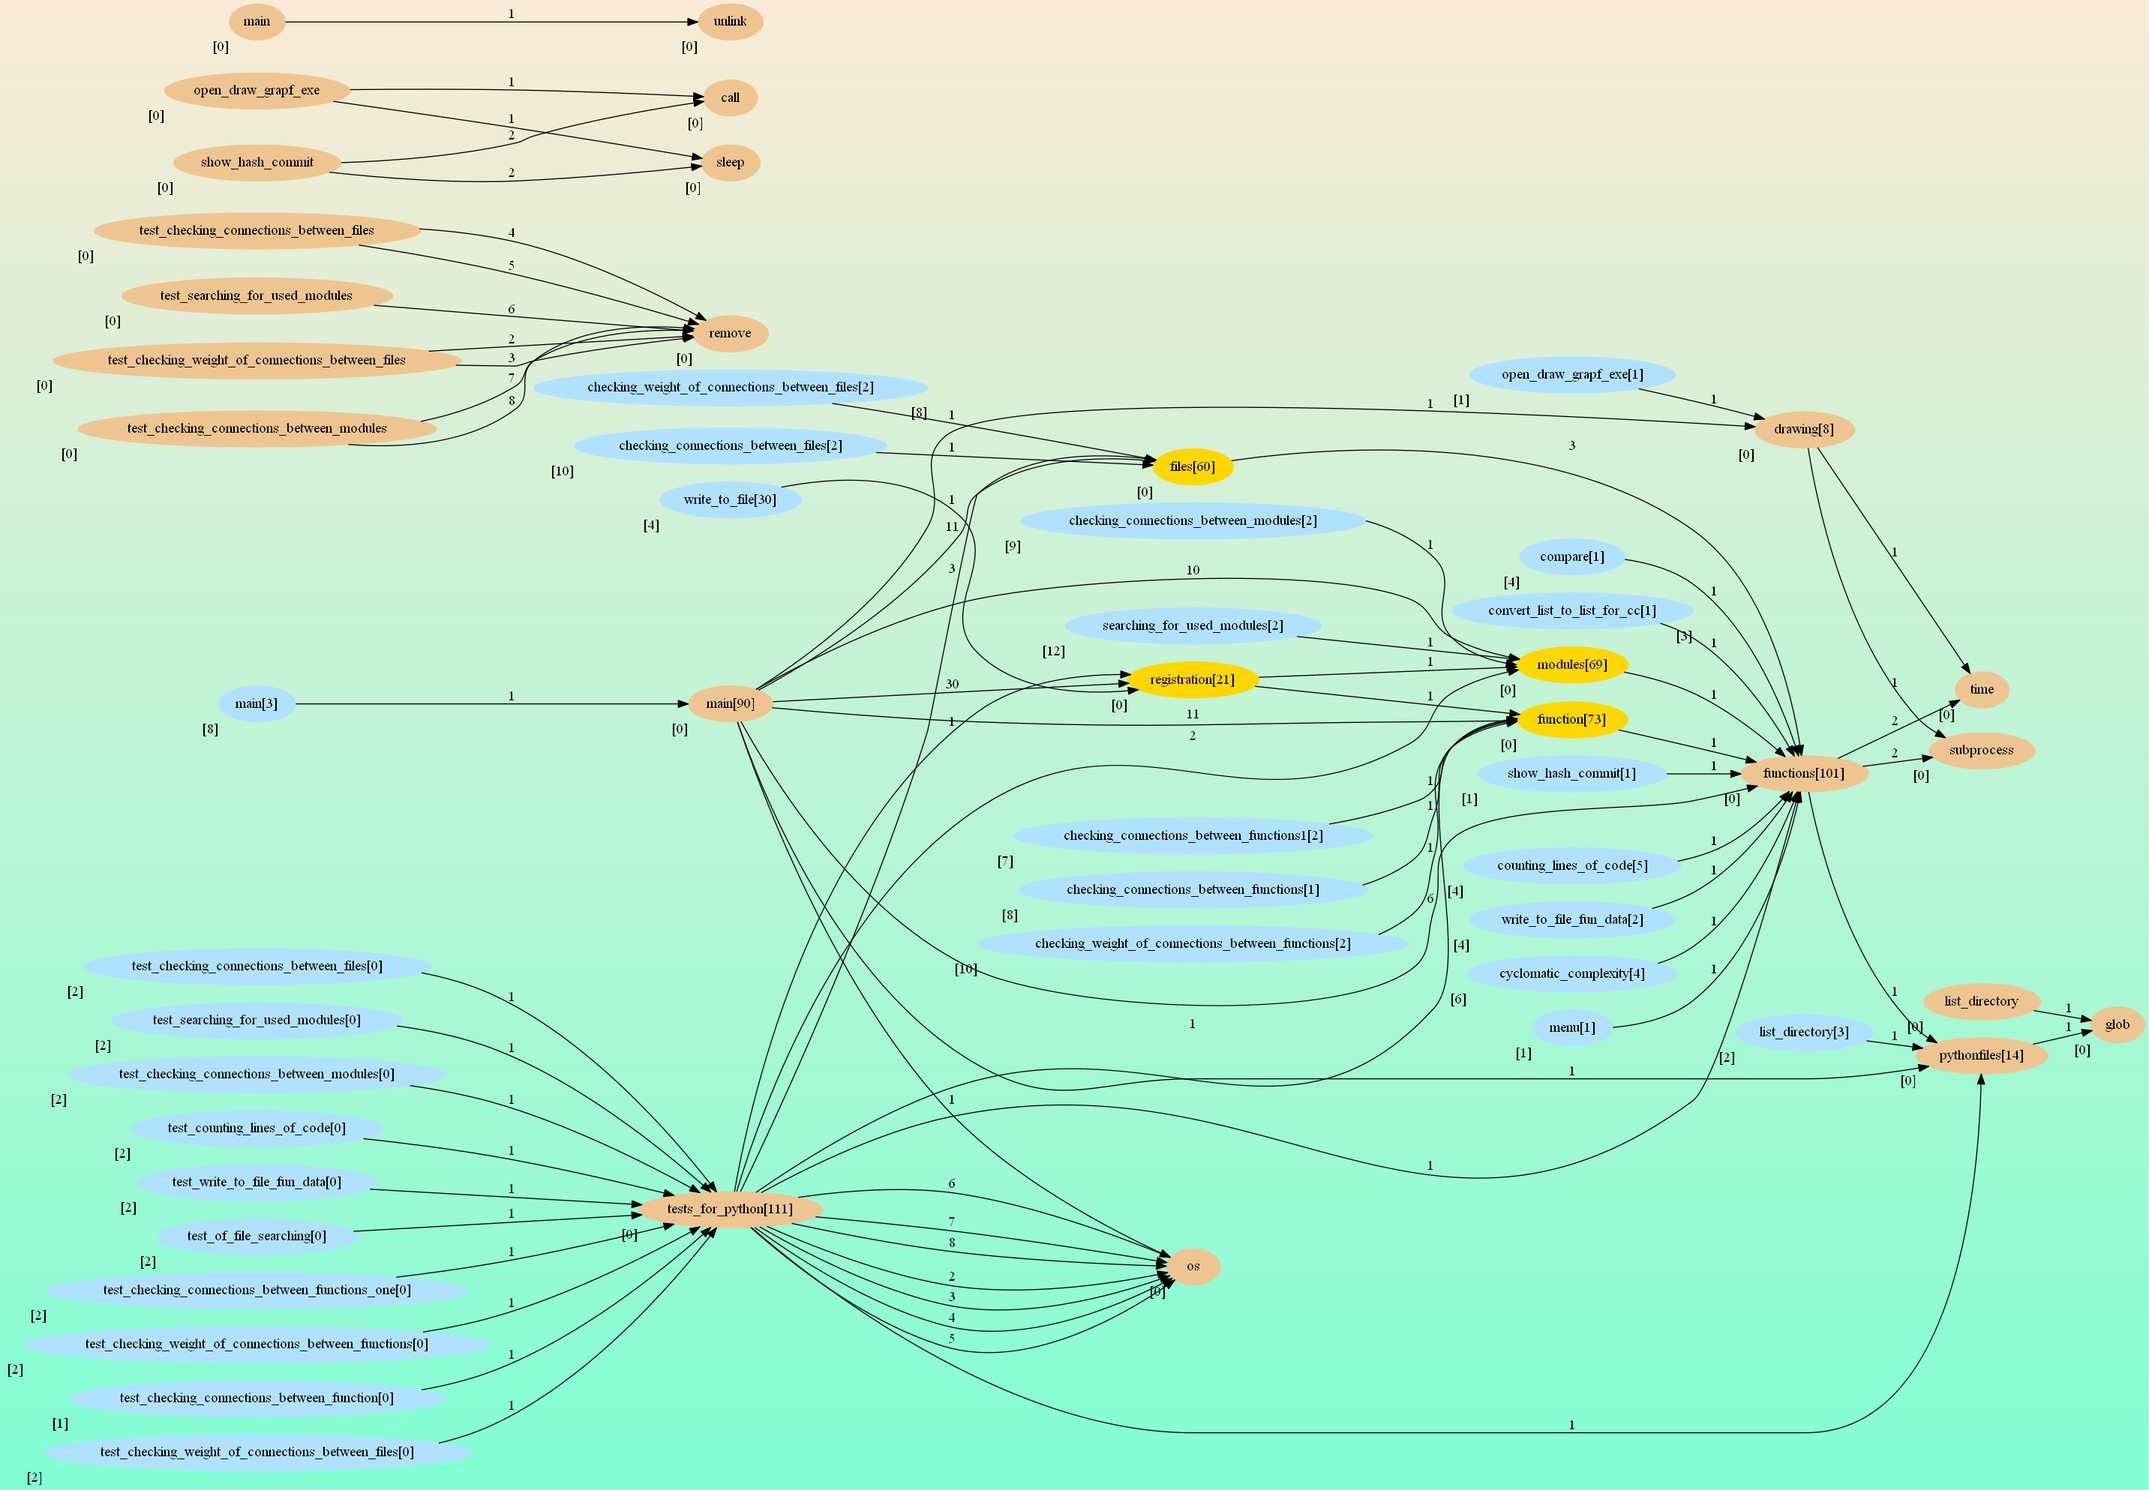
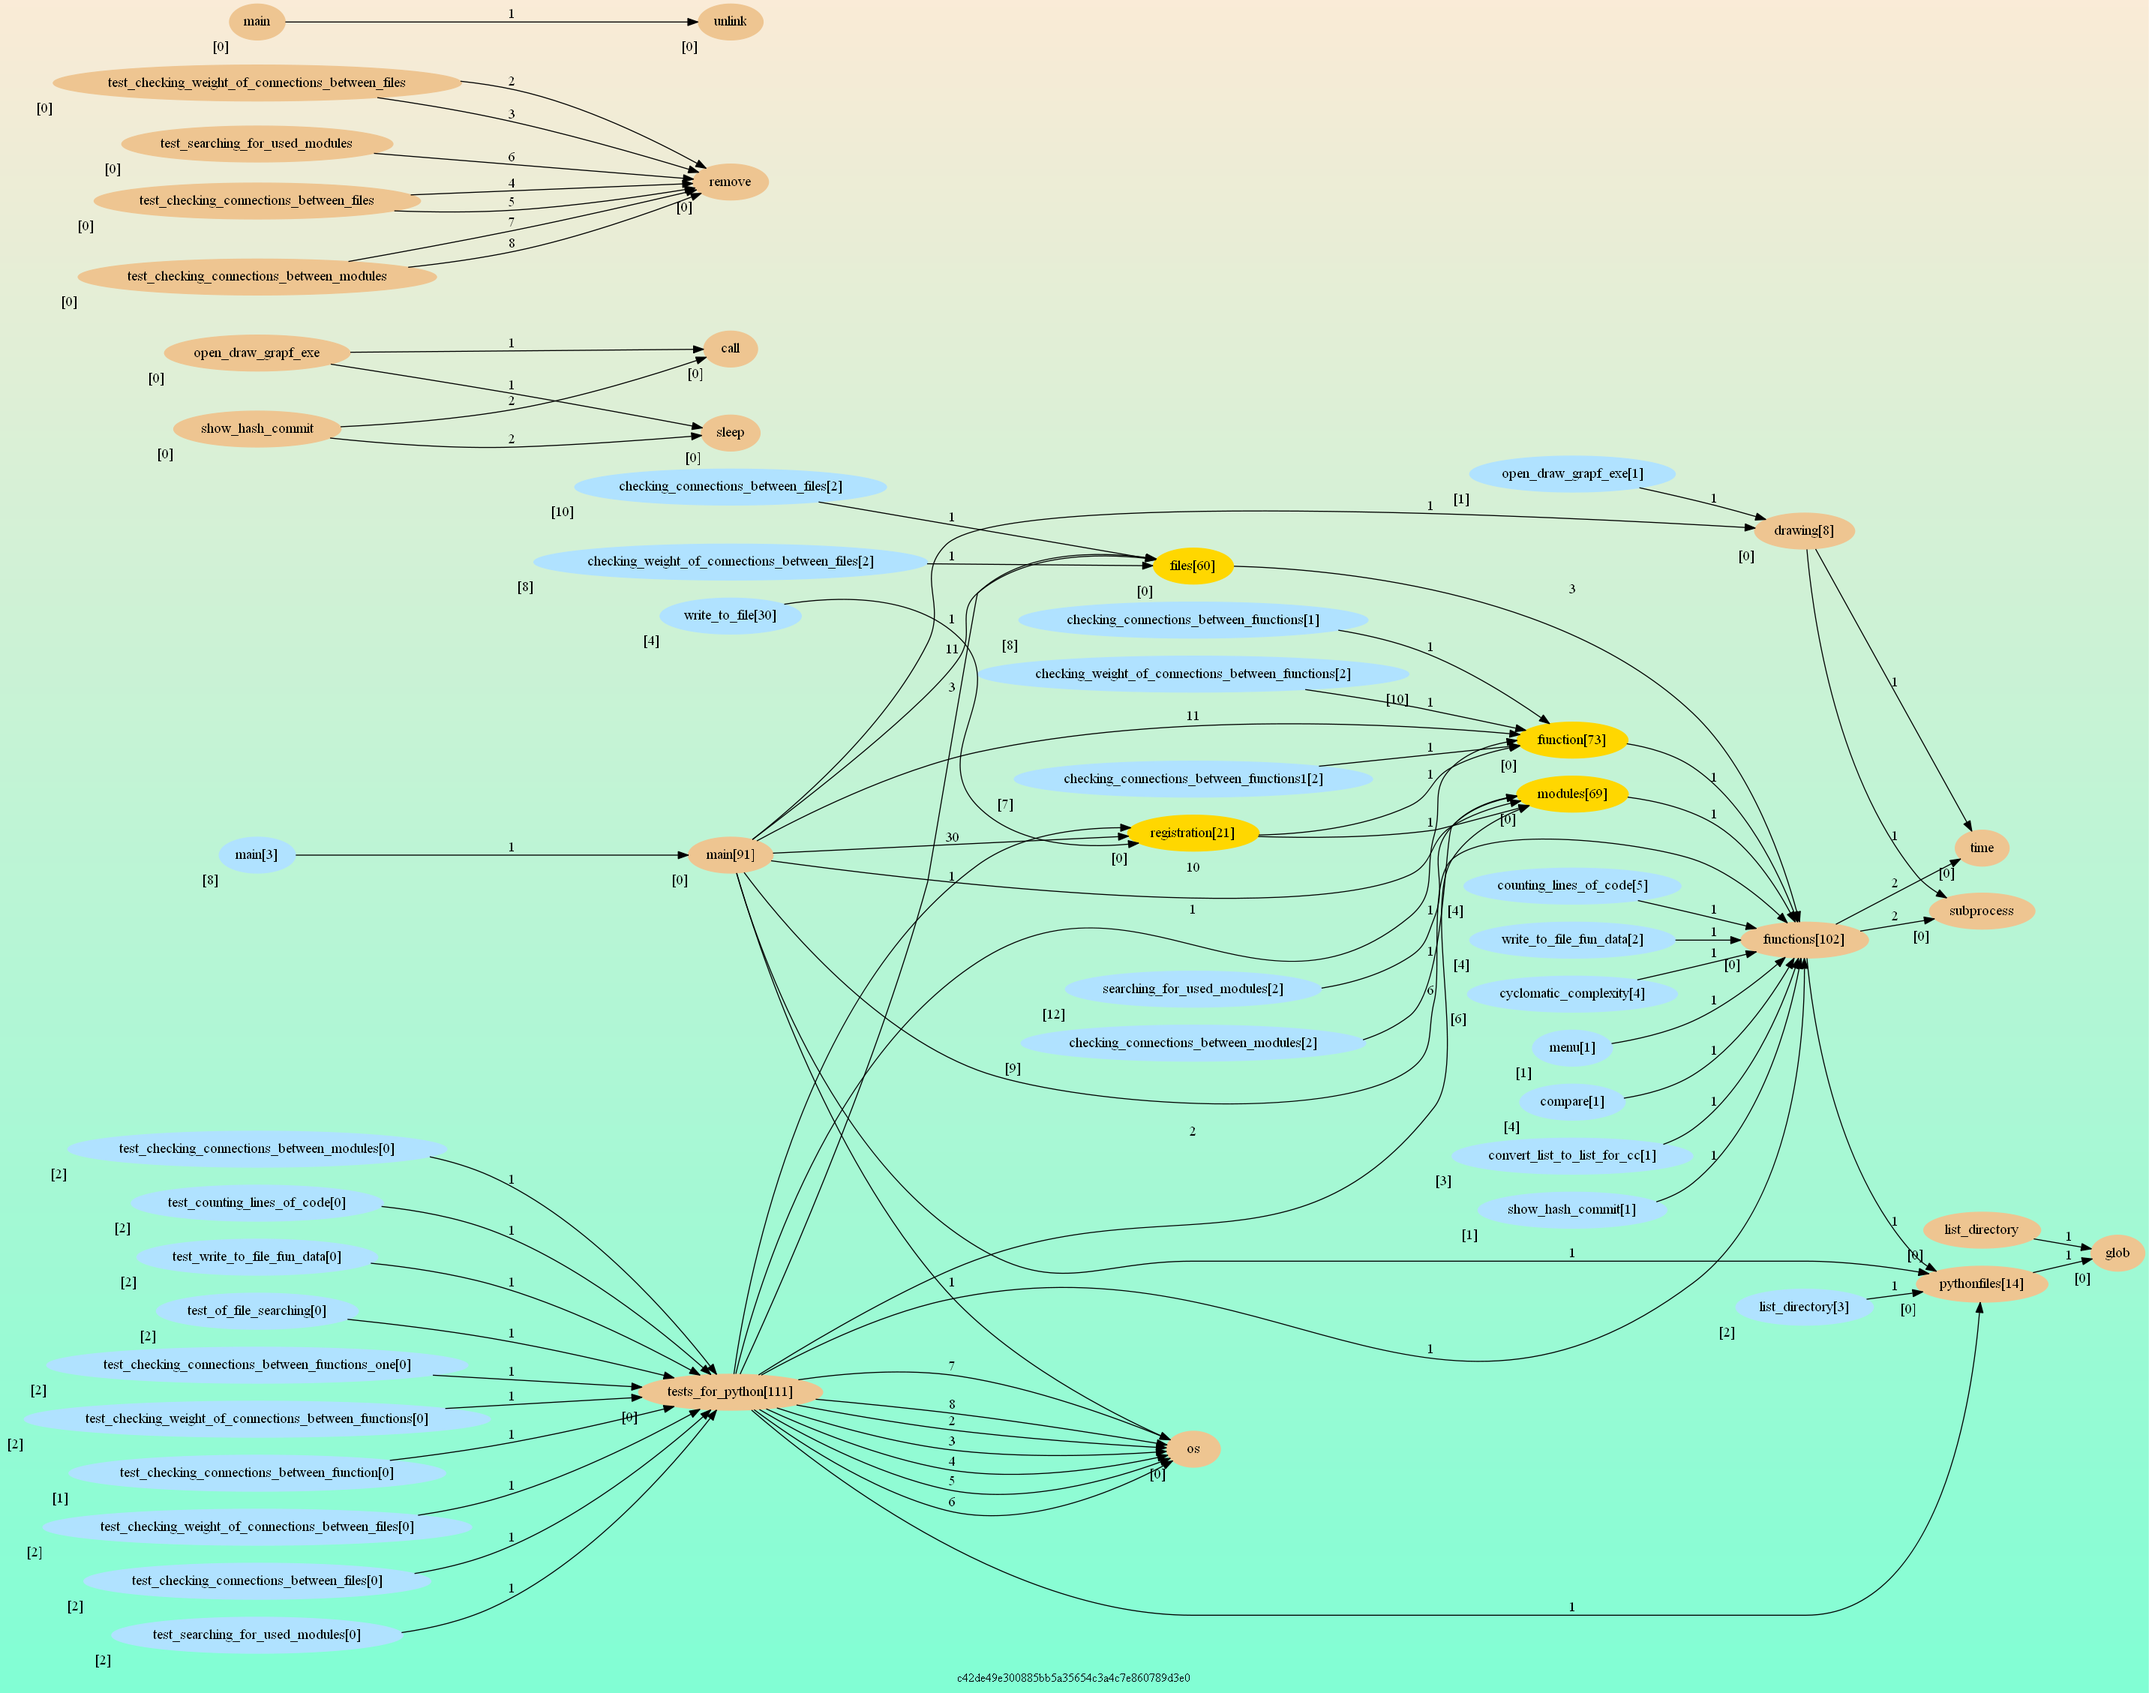
historyjka nr 12 vol 3

diff --git a/functions.py b/functions.py
@@ -108,7 +108,8 @@ def convert_list_to_list_for_cc(*args):
 
 def show_hash_commit():
     """funkcja w terminalu cmd wywoluje sh.exe a w nim wykonuje git loga aktualizujac commity na folder git_log.txt znajdujacy sie w folderze projektu """
-    cmd_command = 'start "" "C:\\Program Files\\Git\\bin\\sh.exe" --login -i -c "cd C:\\Users\\WIKUS\\PycharmProjects\\IO-ProjectJozin\\ && git --no-pager log > git_log.txt"'
+    #cmd_command = 'start "" "C:\\Program_Files\\Git\\bin\\sh.exe" --login -i -c "cd C:\\Users\\WIKUS\\PycharmProjects\\IO-ProjectJozin\\ && git --no-pager log > git_log.txt"'
+    cmd_command='cd C:\\Users\\WIKUS\\PycharmProjects\\IO-ProjectJozin\\ && git --no-pager log > git_log.txt"'
     proc = subprocess.call(cmd_command, shell=True)
     time.sleep(2)
     with open('./git_log.txt', 'r') as hash_file:

diff --git a/main.py b/main.py
@@ -14,8 +14,10 @@ import registration
 
 def main():
     """Funkcja wykonująca cały program"""
-    commit = functions.show_hash_commit()
+    """Funkcja wykonująca cały program"""
+    os.unlink("graf_jozin.txt")
 
+    commit = functions.show_hash_commit()
     registration.Registration.write_to_file('HASH_COMMIT',commit)
 
     modul = modules.Modules()
@@ -47,7 +49,6 @@ def main():
 
     menu_choice = functions.menu()
 
-    os.unlink("graf_jozin.txt")
 
     if menu_choice == 1:
         registration.Registration.write_to_file("FILES",
